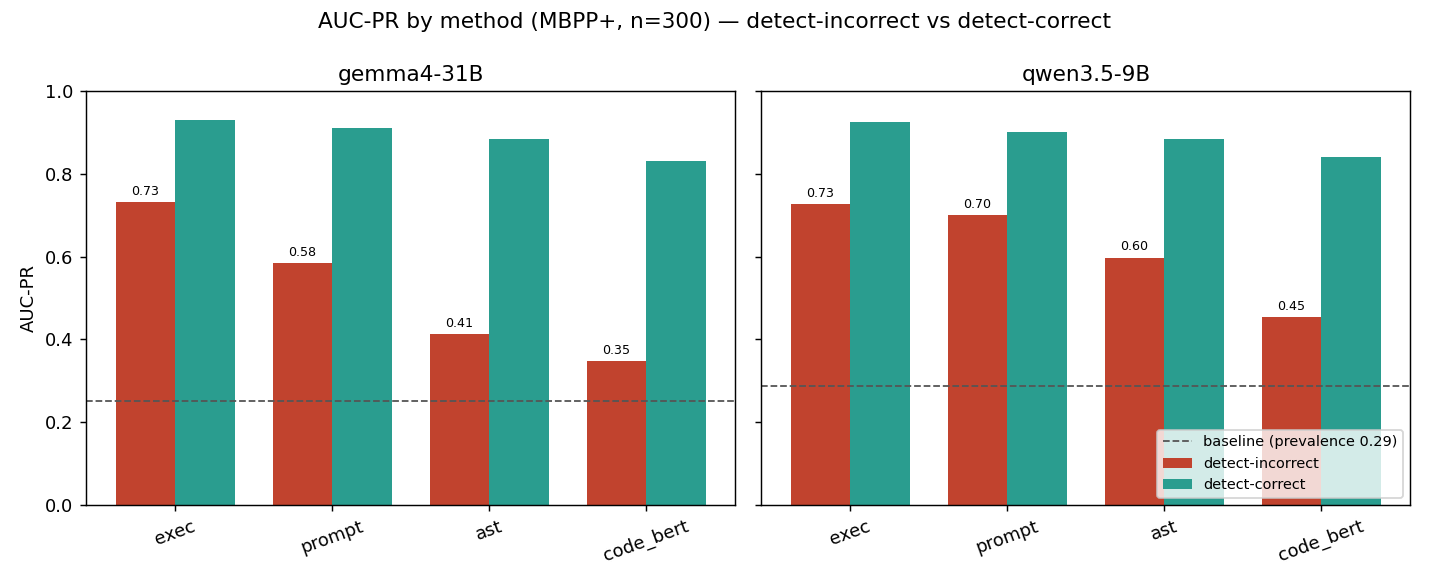
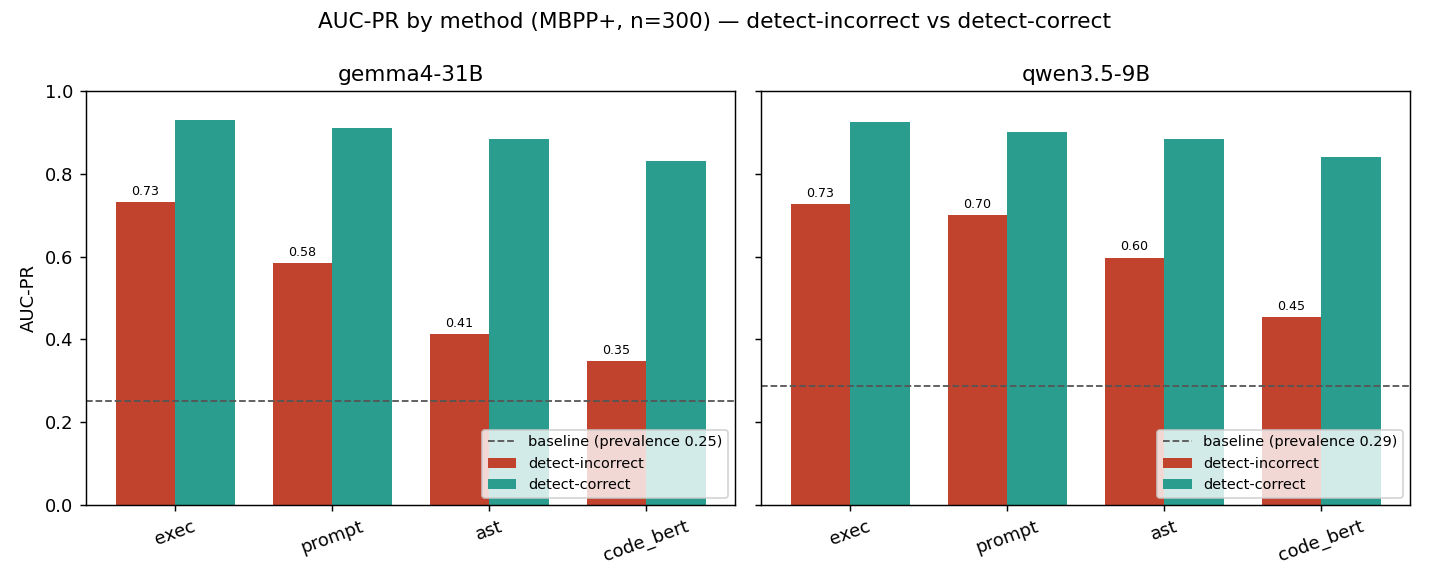
Fix: Per-panel baseline legend in the AUC-PR bar chart
The shared legend showed only one model's prevalence baseline (0.29),
mismatching the other panel's line at 0.25. Give each panel its own
legend so the labeled baseline matches the dashed line in that panel.

Changed region(s): [[0.3385, 0.7077, 0.5231, 0.8615]]

diff --git a/scripts/make_analysis_figures.py b/scripts/make_analysis_figures.py
@@ -75,8 +75,10 @@ def plot_auc_bars(model_data) -> Path:
         ax.set_ylim(0, 1)
         for i, v in enumerate(inc):
             ax.text(i - width / 2, v + 0.01, f"{v:.2f}", ha="center", va="bottom", fontsize=7)
+        # Per-panel legend so each shows its own baseline (gemma 0.25 vs qwen 0.29), not a
+        # single shared label that mismatches the other panel's line.
+        ax.legend(fontsize=8, loc="lower right")
     axes[0].set_ylabel("AUC-PR")
-    axes[-1].legend(fontsize=8, loc="lower right")
     fig.suptitle("AUC-PR by method (MBPP+, n=300) — detect-incorrect vs detect-correct")
     fig.tight_layout()
     return _save(fig, "fig_auc_bars.png")
